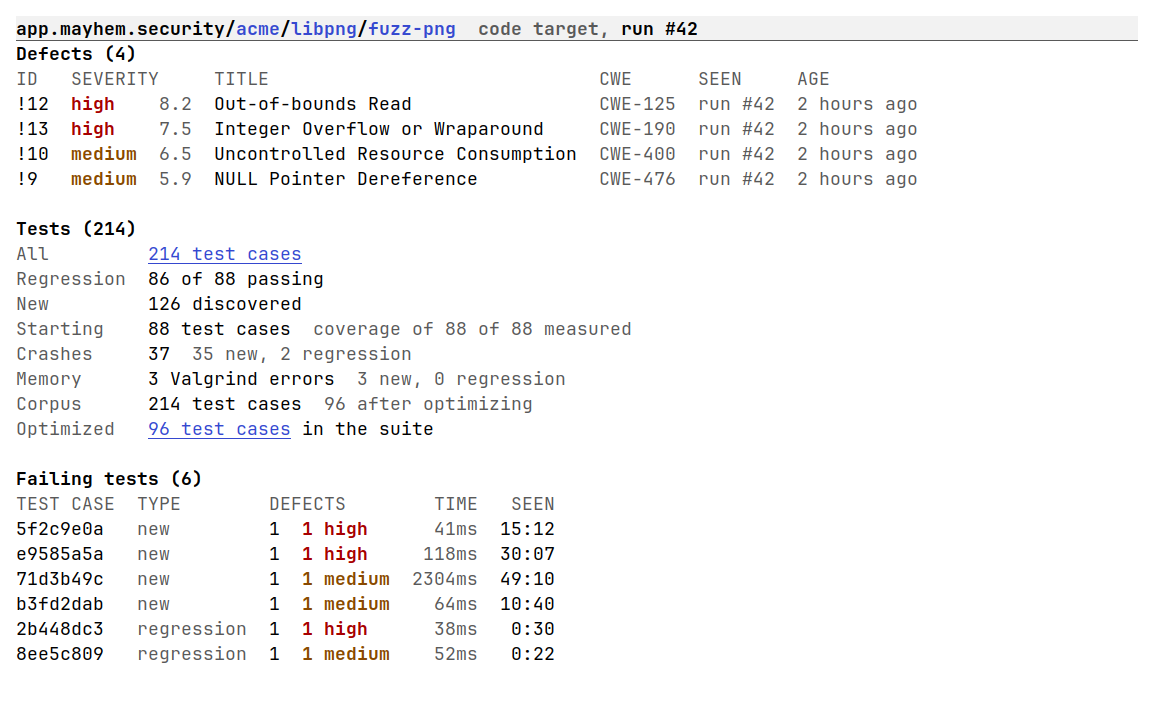
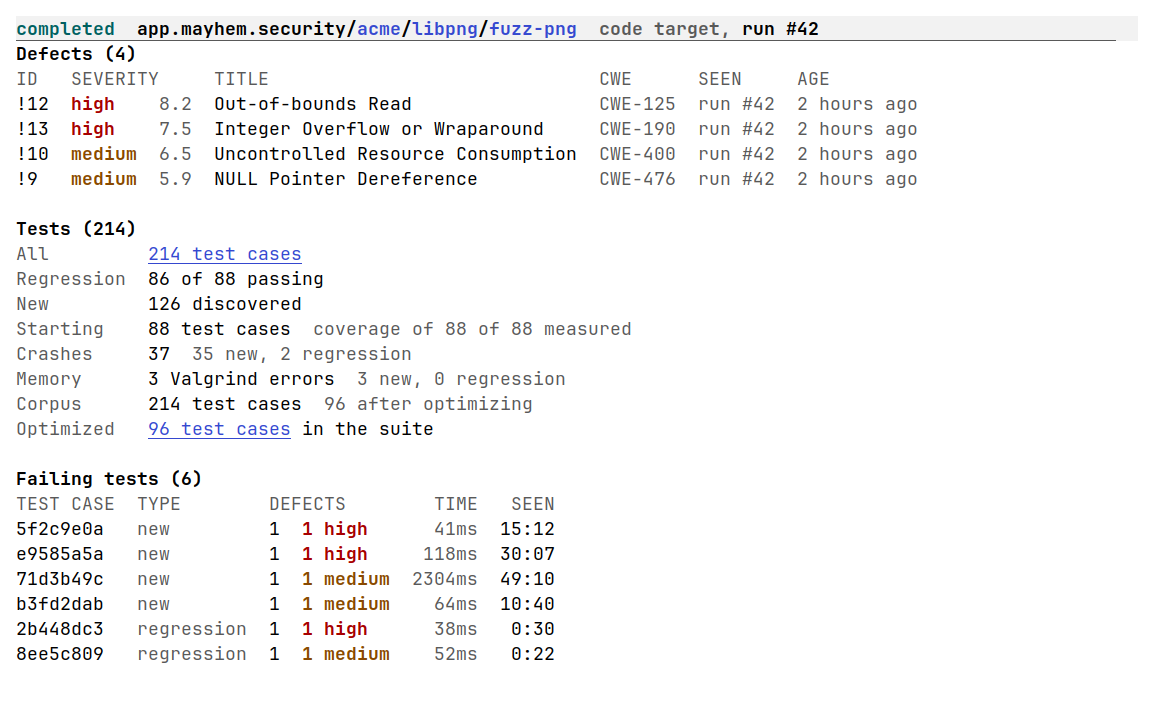
Lead a pinned heading with the page's status; fit it to the page
As octocat.el does: a run's pin starts with its status, a defect's
with its state and severity, a target's with its latest run's status,
passed to `mayhem-sticky-page' as :status.  The pin is cut to the
page's width, the heading first, and its fill stops there.

The screenshots take :width COLUMNS; new shots show the scrolled
target, run log and defect pages, and a narrow defect page.

Changed region(s): [[0.0, 0.0311, 0.7175, 0.0622]]

diff --git a/docs/screenshots/README.md b/docs/screenshots/README.md
@@ -48,6 +48,14 @@ its latest runs and most severe defects.
 [As text](target.txt)
 <!-- /screenshot -->
 
+Scrolled down, after its latest run's status:
+
+<!-- screenshot: (target "acme" "libpng" "fuzz-png") :name "target-scrolled" :scroll 20 -->
+![target-scrolled](target-scrolled.png)
+
+[As text](target-scrolled.txt)
+<!-- /screenshot -->
+
 With `▶ Trend` unfolded:
 
 <!-- screenshot: (target "acme" "libpng" "fuzz-png") :name "target-trend" :press ("▶ Trend") -->
@@ -83,7 +91,7 @@ A code run: how it went, its coverage, defects and tests.
 <!-- /screenshot -->
 
 Scrolled down, the page's heading stays in view, pinned in the header
-line (`mayhem-sticky-title`):
+line (`mayhem-sticky-title`), after the run's status:
 
 <!-- screenshot: (run "acme" "libpng" "fuzz-png" 42) :name "run-scrolled" :scroll 21 -->
 ![run-scrolled](run-scrolled.png)
@@ -97,6 +105,14 @@ Its event log, from `Log`:
 ![run-log](run-log.png)
 
 [As text](run-log.txt)
+<!-- /screenshot -->
+
+Scrolled down:
+
+<!-- screenshot: (run-log "acme" "libpng" "fuzz-png" 42) :name "run-log-scrolled" :scroll 8 -->
+![run-log-scrolled](run-log-scrolled.png)
+
+[As text](run-log-scrolled.txt)
 <!-- /screenshot -->
 
 An API run has its endpoints instead:
@@ -118,6 +134,14 @@ and its backtrace.
 [As text](defect-code.txt)
 <!-- /screenshot -->
 
+Scrolled down, after its state and severity:
+
+<!-- screenshot: (defect "acme" "libpng" "fuzz-png" 12 42) :name "defect-code-scrolled" :scroll 19 -->
+![defect-code-scrolled](defect-code-scrolled.png)
+
+[As text](defect-code-scrolled.txt)
+<!-- /screenshot -->
+
 An API defect, with the HTTP exchange that showed it and the server's
 stack trace:
 
@@ -125,6 +149,14 @@ stack trace:
 ![defect-api](defect-api.png)
 
 [As text](defect-api.txt)
+<!-- /screenshot -->
+
+Narrow, the pinned heading cut to fit:
+
+<!-- screenshot: (defect "acme" "billing-api" "api" 3 7) :name "defect-api-narrow" :scroll 14 :width 60 -->
+![defect-api-narrow](defect-api-narrow.png)
+
+[As text](defect-api-narrow.txt)
 <!-- /screenshot -->
 
 ## Test cases

diff --git a/docs/user-interface-conventions.md b/docs/user-interface-conventions.md
@@ -71,7 +71,10 @@ users expect.
 - **The heading stays in view.**  Once a window is scrolled past it, a
   copy shows in that window's header line, after any notice.  Wrap the
   whole page in `mayhem-sticky-page` with its heading: vui's `:sticky`
-  region pins only while the window is inside it.
+  region pins only while the window is inside it.  The copy keeps to
+  the page's width.
+- **So does the page's status**, leading the copy: pass it as
+  `:status`, such as a run's status or a defect's state and severity.
   A field naming another page (`Run  run #7`) links to it, with
   `mayhem-page-link` or `mayhem-run-link`.
 - **Say what a number is.**  Runs and defects are both numbered from 1
